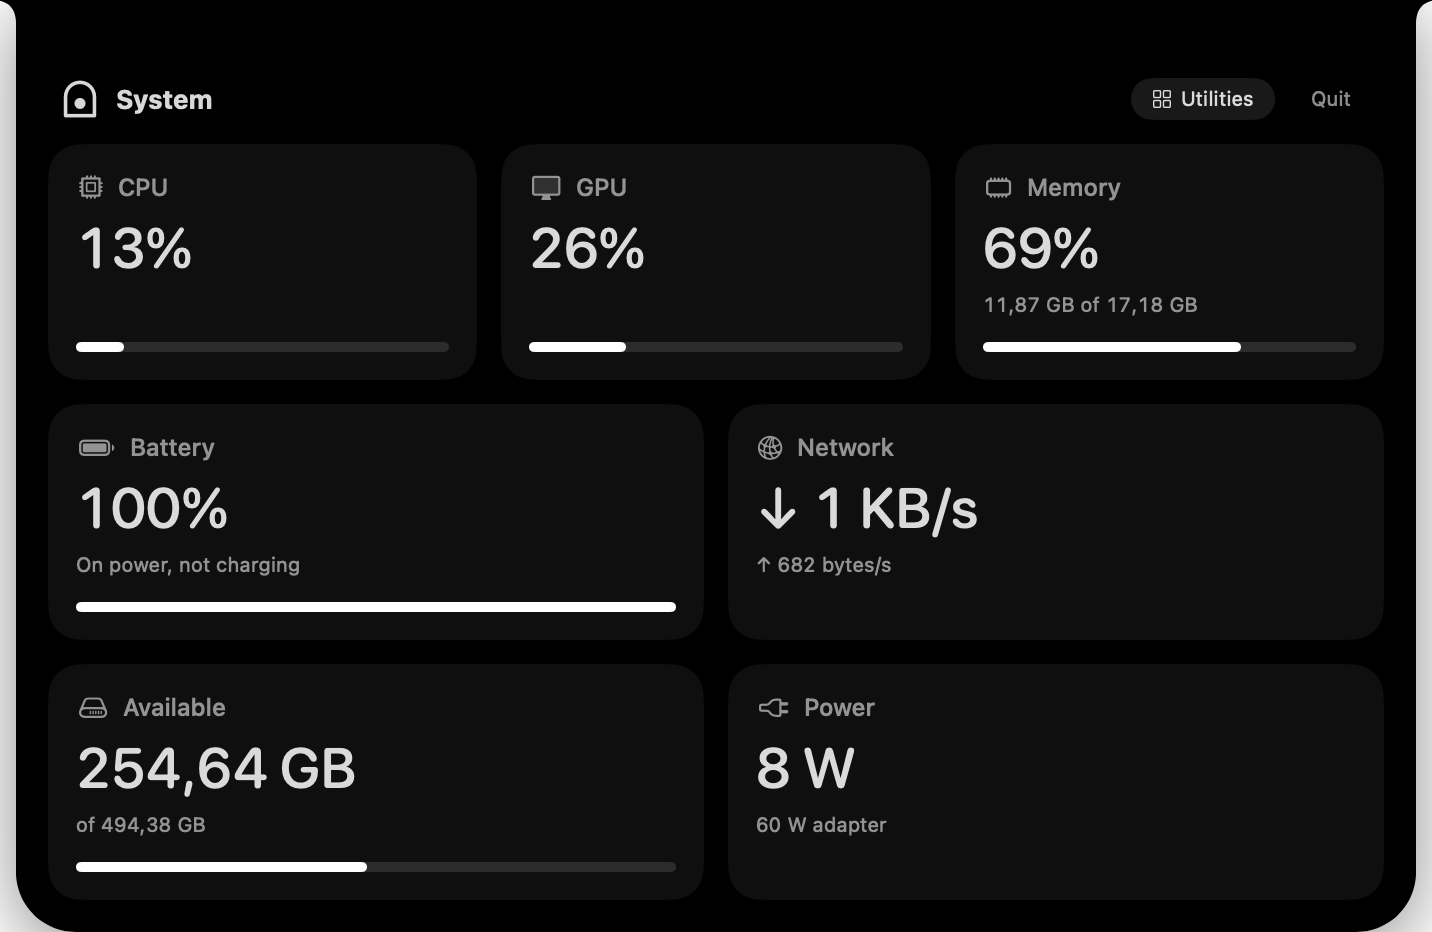
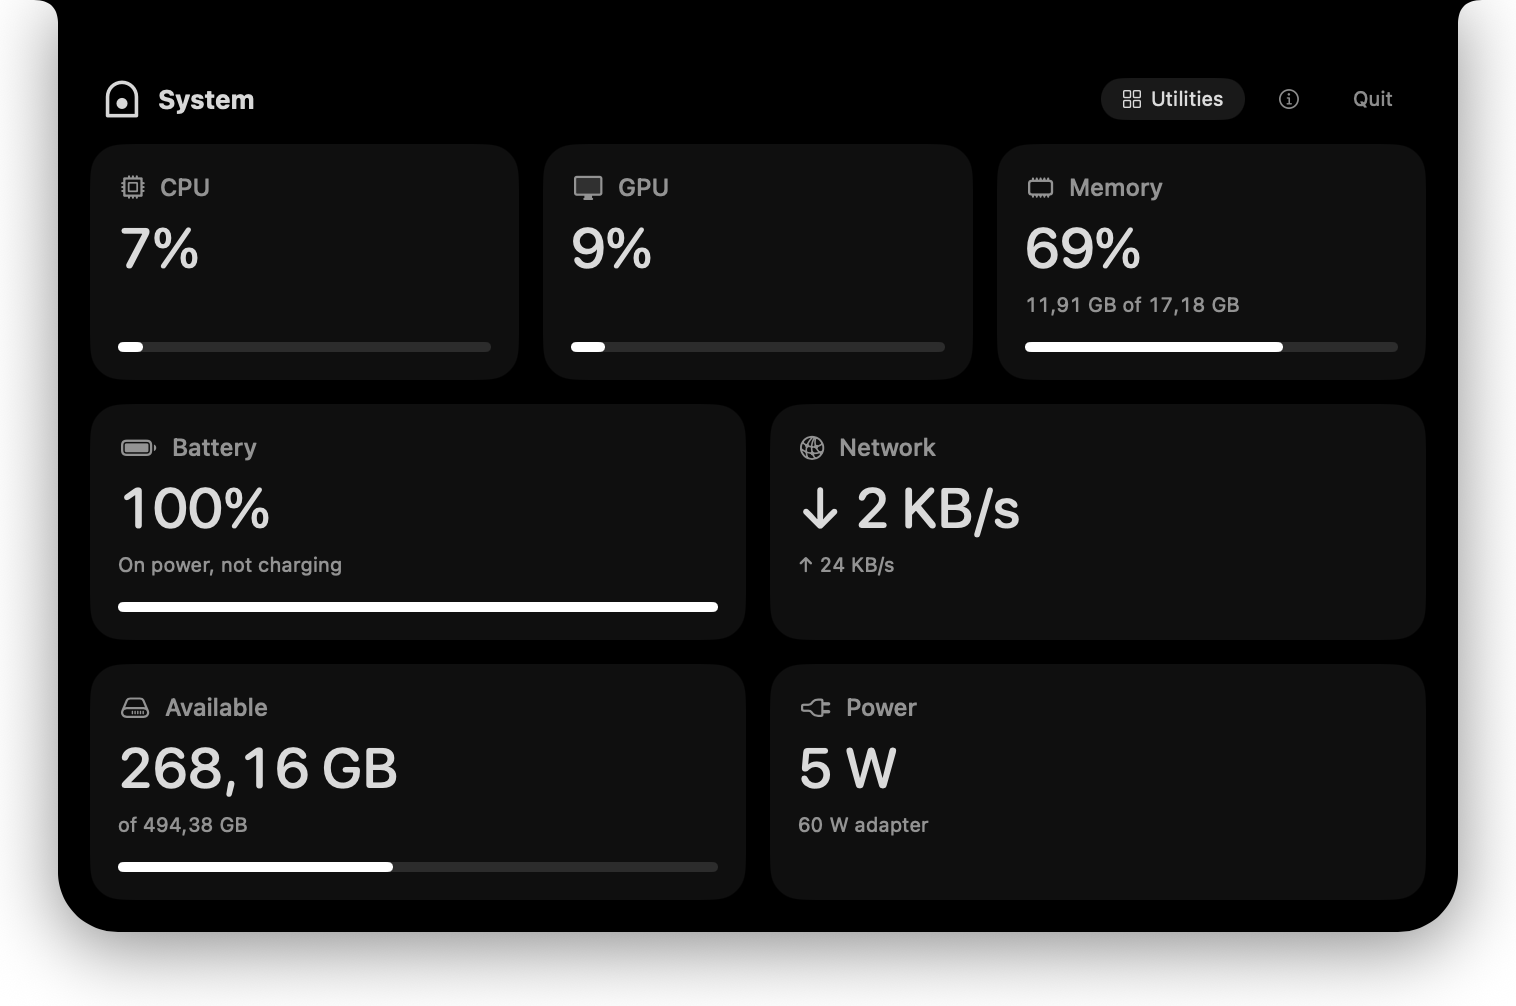
docs: rebuild the README with new screenshots
Lead with a short pitch, the correct Homebrew command and fresh captures of the Utilities, System and About pages; fold feature details and developer notes into collapsible sections.

diff --git a/README.md b/README.md
@@ -1,132 +1,160 @@
-<p align="center"><img src="icon/preview.png" width="128" alt="Nook icon"></p>
+<p align="center"><img src="icon/preview.png" width="112" alt="Nook icon"></p>
 
-# Nook
+<h1 align="center">Nook</h1>
 
-**Your little corner of utilities.**
-
-Nook is a lightweight macOS app that brings everyday utilities together in one convenient place. From Pomodoro focus sessions to scheduling shutdowns and cleaning up your system, Nook helps you take care of small tasks without interrupting your workflow.
-
-## ✨ Features
-
-Nook lives in your menu bar. Click its icon and Nook drops down from the notch at the top center of the screen, like the Dynamic Island. Click the icon again, click anywhere else or press Esc to fold it back up.
-
-The island has two pages. **Utilities** shows five tiles in two columns: Pomodoro and Power Off on the left, Music, Screen Recording and Bluetooth on the right. **System** shows your Mac's vitals. Switch between them with the button in the island's header, next to **Quit**.
+<p align="center"><strong>Your little corner of utilities, right under the notch.</strong></p>
 
 <p align="center">
-  <img src="screenshots/utilities.png" width="700" alt="The Utilities page: Pomodoro, Power Off, Screen Recording and Bluetooth tiles">
+  <a href="https://github.com/cs-tungthanh/nook/releases/latest"><img src="https://img.shields.io/github/v/release/cs-tungthanh/nook?style=flat-square&label=release&color=e8613c" alt="Latest release"></a>
+  <img src="https://img.shields.io/badge/macOS-13%2B-1f2328?style=flat-square&logo=apple&logoColor=white" alt="macOS 13 or later">
+  <img src="https://img.shields.io/badge/Apple_silicon-arm64-1f2328?style=flat-square" alt="Apple silicon">
+  <a href="https://cs-tungthanh.github.io/projects/nook/"><img src="https://img.shields.io/badge/website-nook-2f7cf6?style=flat-square" alt="Website"></a>
+</p>
+
+Nook lives in your menu bar. Click its icon and a panel drops down from the notch, like the Dynamic Island, with a Pomodoro timer, a shutdown timer, background music, screen recording, your Bluetooth devices and your Mac's vitals. Click away or press Esc and it folds back up.
+
+<p align="center">
+  <img src="screenshots/utilities.png" width="720" alt="Nook's Utilities page: Pomodoro, Power Off, Music, Screen Recording and Bluetooth tiles">
+</p>
+
+## Install
+
+```bash
+brew install --cask cs-tungthanh/tap/nook
+```
+
+Nook updates itself: when a new version is out, the island shows **Update to x.y.z**, and **About › Update & Relaunch** installs it. You can also run `brew upgrade --cask cs-tungthanh/tap/nook`, and remove Nook with `brew uninstall --cask cs-tungthanh/tap/nook`.
+
+> [!NOTE]
+> Use the full name `cs-tungthanh/tap/nook`. A plain `brew install nook` installs a different app, a web browser that's also called Nook.
+
+Nook needs an Apple silicon Mac with macOS 13 or later; screen recording needs macOS 15. It isn't notarized by Apple, so the Homebrew cask clears the download's quarantine flag for you. To build it yourself instead, see [Build from source](#build-from-source).
+
+## What's inside
+
+| | |
+|---|---|
+| ⏱ **Pomodoro** | Focus sprints with a live countdown ring, then a break as a notification or a full-screen overlay. Pauses while your Mac is locked or asleep. |
+| ⏻ **Power Off** | Drag along a ruler to shut your Mac down in 5 minutes to 2 hours. Cancel in one click. |
+| 🎵 **Music** | Study, sleep, focus and jazz live streams from YouTube, playing in the background. Search YouTube or play your own playlists. |
+| ⏺ **Screen Recording** | One screen, all screens or an area, with system audio and your microphone. Pause, resume and save as `.mov`. |
+| 📶 **Bluetooth** | Your paired devices with battery levels, including AirPods left, right and case. Connect or disconnect in one click. |
+| 📊 **System** | CPU, GPU, memory, battery, network, disk space and power draw at a glance. |
+| ℹ **About & updates** | Your version, how Nook was installed, and one-click updates from GitHub. |
+
+<p align="center">
+  <img src="screenshots/system.png" width="720" alt="Nook's System page: CPU, GPU, Memory, Battery, Network, Available disk space and Power tiles">
 </p>
 
 <p align="center">
-  <img src="screenshots/system.png" width="700" alt="The System page: CPU, GPU, Memory, Battery, Network, Available disk space and Power tiles">
+  <img src="screenshots/about.png" width="720" alt="Nook's About page: version 1.1.0, installed with Homebrew, up to date">
 </p>
 
-- **Power-off Timer** — Schedule your Mac to shut down after a set time.
-  - Click or drag along the ruler to pick 5 minutes to 2 hours in 5-minute steps, then press Start.
-  - A live countdown in the island, and a power icon in the menu bar while a shutdown is scheduled.
-  - Cancel with one click. You get a notification when a shutdown is scheduled or cancelled.
-- **Pomodoro** — Focus in sprints and take regular breaks away from your screen.
-  - A colorful card in the island: press **Start focusing**, then watch a live countdown ring — tomato red while you focus, mint green on a break, grey while paused.
-  - Focus for N minutes (20 by default), then break for 2m, 5m, 10m or 20m. **Break now** starts a break early; **Back to focus** ends one.
-  - Two break styles: a **Notification** with Start break / Snooze / Skip actions, or a **Full screen** blurred overlay with a countdown (press Esc to get back to focus; the screen is never locked).
-  - A ☕ icon in the menu bar during a break.
-  - Pauses while your Mac is locked or asleep. Settings are remembered between launches.
-- **Screen Recording** — Record your screens with audio (macOS 15 or later).
-  - **Source**: one **Screen** (pick which when you have several), **All screens** side by side in one video, or an **Area** you drag out after pressing Record (Esc cancels).
-  - Include **System** audio (what your Mac plays), your **Microphone**, or both. Your choices are remembered.
-  - **Stop** pauses the recording. Then **Resume** to keep recording into the same video, **Save** to finish it, or **Discard** to delete it.
-  - **Save** opens a dialog to name the `.mov` and pick a folder (Desktop by default), then shows it in Finder. Cancelling asks before deleting the recording. Quitting Nook with an unsaved recording asks where to save it first.
-  - While recording, a red **Stop** button with the elapsed time appears in the menu bar; click it to stop, and the island opens so you can resume or save.
-  - A record icon in the menu bar while recording (a pause icon while stopped) and a running timer in the island; Nook's own island is left out of the video.
-  - Very wide videos (for example two Retina screens) are saved as HEVC and scaled down to what the encoder supports.
-  - The first time, macOS asks you to allow Nook under **Screen & System Audio Recording** (and **Microphone** if you include it).
-- **Bluetooth** — Your paired devices, one tap from connecting.
-  - Each device shows whether it's connected and its battery level, including left, right and case for AirPods.
-  - **Connect** or **Disconnect** with one click. The first four devices are shown; **Show all** lists the rest.
-  - To forget a device, use **System Settings › Bluetooth**. macOS doesn't let other apps unpair devices.
-  - The first time, macOS asks you to allow Nook under **Bluetooth**.
-- **Music** — Study, sleep and focus music from YouTube, playing in the background.
-  - Pick a station from the menu in the Music tile: **Study**, **Sleep**, **Focus** or **Jazz**. Each plays a current live stream, so it never goes stale.
-  - Press 🔍 to search YouTube without leaving Nook. Filter by **Live**, **Playlists** or **Long (1h+)**, use ↑↓ to choose and press Return to play it now, or ⌘Return to also save it as a station. Esc goes back to the tiles. Your last 10 searches are listed until you type; **Clear** removes them.
-  - A result you play from search isn't saved until you press **☆ Save**. You can also **Add from YouTube Link…** (a link on the clipboard is filled in), and remove saved stations from the same menu.
-  - Switching stations fades the old music out. If something can't be played outside YouTube, Nook says so and the previous station keeps playing.
-  - Music keeps playing while the island is closed, with a ♪ icon in the menu bar. Right-click the menu bar icon to play, pause or switch stations without opening the island.
-  - Nothing plays until you press play; your last station and volume are remembered. Videos play through YouTube's own player, so YouTube's ads may play too.
-  - Once a station like **Study** is playing, the tile shows the stream's own title, with the station and channel underneath (for example *Study · Lofi Girl*).
-  - Press ↗ (or **Open in YouTube** in the menu) to open what's playing on youtube.com in your browser, at the same moment. Nook pauses so the two don't play over each other.
-  - **Recently Played** in the station menu lists the last 15 stations that played, whether presets, search results or playlists. **Clear Recently Played** empties it.
-  - **Connect YouTube Account** adds **Your Playlists** to the menu: your Liked videos and your own playlists, private ones included. Sign-in happens in your browser, Nook only reads your account, and **Disconnect** signs it out again. It needs a Google client ID when building; see [Connect YouTube](#connect-youtube).
-- **System** — Press **System** in the island's header to see your Mac's vitals at a glance; press **Utilities** to go back.
-  - **CPU**, **GPU** and **Memory** usage, each with a meter that turns orange above 85%.
-  - **Battery** level and whether it's charging, and **Network** download and upload speed.
-  - **Available** disk space, and **Power**: how many watts your Mac draws, with the adapter's rating when plugged in.
-  - Updates every 1.5 seconds, and only while the page is open.
-- **Cleanup** — Command-line tools that keep your system tidy (not in the menu bar app yet):
-  - `clean-zsh` removes duplicate commands from `~/.zsh_history`, keeping the latest of each.
-  - The bookmark updater follows redirects in your Microsoft Edge bookmarks and rewrites links that have moved.
-- **More Utilities** — A growing collection of handy tools for everyday tasks.
+## Features in detail
 
-> Features are planned to evolve as Nook grows.
+<details>
+<summary><strong>Pomodoro</strong></summary>
 
-## 🎯 Philosophy
+- A colorful card in the island: press **Start focusing**, then watch the countdown ring: tomato red while you focus, mint green on a break, grey while paused.
+- Focus for N minutes (20 by default), then break for 2, 5, 10 or 20 minutes. Changing the focus length keeps the time you've already focused.
+- **Break now** starts a break early, **Snooze 5m** pushes the next one back, and **Back to focus** ends a break.
+- Two break styles: a **Notification** with Start break, Snooze and Skip actions, or a **Full screen** blurred overlay with a countdown. Press Esc to get back to focus; the screen is never locked.
+- Pauses while your Mac is locked or asleep and picks up where it stopped. A ☕ icon shows in the menu bar during a break.
 
-Nook is built around a few simple principles:
+</details>
 
-- **Simple** — Do one thing well, without unnecessary complexity.
-- **Lightweight** — Stay out of your way and use resources responsibly.
-- **Convenient** — Keep useful tools within easy reach.
-- **Native** — Feel at home on macOS, with an interface that is clean and familiar.
-- **Extensible** — Make it easy to add new utilities as needs evolve.
+<details>
+<summary><strong>Power Off</strong></summary>
 
-## 🖥 Platform
+- Click or drag along the ruler to pick 5 minutes to 2 hours in 5-minute steps, then press **Start**.
+- A live countdown in the island and a power icon in the menu bar while a shutdown is scheduled. Cancel with one click.
+- You get a notification when a shutdown is scheduled or cancelled, and if macOS refuses to shut down, Nook tells you why.
 
-- macOS
+</details>
 
-## 🚀 Getting Started
+<details>
+<summary><strong>Music</strong></summary>
 
-### Install with Homebrew
+- Pick a station: **Study**, **Sleep**, **Focus** or **Jazz**. Each plays a current live stream, so it never goes stale.
+- Press 🔍 to search YouTube. Filter by **Live**, **Playlists** or **Long (1h+)**, choose with ↑↓ and press Return to play, or ⌘Return to also save it as a station. Your last 10 searches stay listed.
+- Save search results with **☆ Save**, or **Add from YouTube Link…**. **Recently Played** lists the last 15 stations.
+- Switching stations fades the old music out. If something can't play outside YouTube, Nook says so and goes back to what was playing.
+- Music keeps playing with the island closed, with a ♪ icon in the menu bar. Right-click the menu bar icon to play, pause or switch stations.
+- Press ↗ to open what's playing on youtube.com at the same moment; Nook pauses so the two don't overlap.
+- **Connect YouTube Account** adds your Liked videos and playlists, private ones included. Sign-in happens in your browser, Nook only reads your account, and the sign-in is kept in your Keychain.
+- Videos play through YouTube's own player, so YouTube's ads may play too.
+
+</details>
+
+<details>
+<summary><strong>Screen Recording</strong></summary>
+
+- **Source**: one **Screen**, **All screens** side by side in one video, or an **Area** you drag out after pressing Record (Esc cancels).
+- Include **System** audio, your **Microphone**, or both.
+- **Stop** pauses the recording. Then **Resume**, **Save** to name the `.mov` and pick a folder, or **Discard**. Quitting with an unsaved recording asks where to save it first.
+- A red **Stop** button with the elapsed time sits in the menu bar while recording. Nook's own island is left out of the video.
+- Very wide videos, such as two Retina screens, are saved as HEVC and scaled to what the encoder supports.
+
+</details>
+
+<details>
+<summary><strong>Bluetooth</strong></summary>
+
+- Each device shows whether it's connected and its battery level, including left, right and case for AirPods.
+- **Connect** or **Disconnect** with one click. The first four devices are shown; **Show all** lists the rest.
+- To forget a device, use **System Settings › Bluetooth**; macOS doesn't let other apps unpair devices.
+
+</details>
+
+<details>
+<summary><strong>System</strong></summary>
+
+- **CPU**, **GPU** and **Memory** usage, each with a meter that turns orange above 85%.
+- **Battery** level and charging state, **Network** download and upload speed, **Available** disk space, and **Power**: the watts your Mac draws and the adapter's rating.
+- Updates every 1.5 seconds, and only while the page is open.
+
+</details>
+
+<details>
+<summary><strong>About & updates</strong></summary>
+
+- Click ⓘ in the island's header to see your version, whether Nook was installed with Homebrew, and links to GitHub and the release notes.
+- Nook checks GitHub for a new release shortly after launch and every 6 hours, and sends one notification per new version.
+- **Update & Relaunch** downloads the release, checks it against the SHA-256 that GitHub publishes, installs it (through Homebrew when Nook came from there) and reopens Nook. Each step is logged to `~/Library/Logs/Nook/update.log`.
+
+</details>
+
+### Permissions
+
+macOS asks for each of these the first time Nook needs it:
+
+| Permission | Why |
+|---|---|
+| **Notifications** | Break reminders, shutdown alerts and update notices |
+| **Automation** (System Events) | Shutting down your Mac at the scheduled time |
+| **Bluetooth** | Listing, connecting and disconnecting your devices |
+| **Screen & System Audio Recording**, **Microphone** | Only when you record your screen |
+
+## Build from source
+
+You need macOS 13 or later, the Swift compiler (Xcode or the Command Line Tools) and, for the command-line tools, Go.
 
 ```bash
-brew tap cs-tungthanh/tap
-brew trust cs-tungthanh/tap
-brew install nook
+./build.sh          # compile, bundle and sign Nook.app
+./install.sh        # build, replace /Applications/Nook.app and launch it
 ```
 
-`brew tap` adds the [cs-tungthanh/tap](https://github.com/cs-tungthanh/homebrew-tap) catalog, and `brew trust` lets Homebrew install from it (Homebrew asks this once for any tap outside its own). After that, update with `brew upgrade nook` and remove with `brew uninstall nook`. Nook needs an Apple silicon Mac.
+`./install.sh --uninstall` quits and removes Nook. Local builds take the latest release's version number, so the update check treats them as current.
 
-### Requirements for building
+`build.sh` signs with your Apple Development or Developer ID certificate when you have one, so macOS keeps Nook's permissions across rebuilds; otherwise it signs ad-hoc. Set `NOOK_SIGN_IDENTITY` to choose an identity, or `-` to force ad-hoc.
 
-- macOS 13 (Ventura) or later
-- Swift compiler (comes with Xcode or the Command Line Tools)
-- Go, for the command-line tools
+<details>
+<summary><strong>Connect YouTube: set up a Google client ID</strong></summary>
 
-### Build and run the app
-
-```bash
-./build.sh
-open Nook.app
-```
-
-To install it, or to update an installed copy, run:
-
-```bash
-./install.sh
-```
-
-It builds Nook, quits any running copy (an unsaved recording still gets its save prompt), replaces `/Applications/Nook.app` and launches it. `./install.sh --uninstall` quits and removes Nook.
-
-On first use, macOS asks for these permissions:
-
-- **Automation** — to shut down your Mac at the scheduled time.
-- **Notifications** — for shutdown alerts and break reminders.
-- **Bluetooth** — to list, connect and disconnect your devices.
-- **Screen & System Audio Recording** and **Microphone** — only when you record your screen.
-
-### Connect YouTube
-
-Listing your own playlists needs a Google OAuth client ID built into Nook. Without one, Nook works as usual but doesn't offer **Connect YouTube Account**. To set it up once:
+Listing your own playlists needs a Google OAuth client ID built into Nook. Without one, Nook works as usual but doesn't offer **Connect YouTube Account**.
 
 1. In [Google Cloud Console](https://console.cloud.google.com/), create a project and enable **YouTube Data API v3**.
-2. Set up the OAuth consent screen (External, in testing) and add your Google account as a test user.
+2. Set up the OAuth consent screen (External), add the `youtube.readonly` scope, and add your Google account as a test user.
 3. Create an **OAuth client ID** of type **iOS** with bundle ID `com.nook.app`.
 4. Put it in a `.env` file next to `build.sh` (it's gitignored), then run `./install.sh`:
 
@@ -134,44 +162,52 @@ Listing your own playlists needs a Google OAuth client ID built into Nook. Witho
    NOOK_YOUTUBE_CLIENT_ID=1234567890-abc.apps.googleusercontent.com
    ```
 
-`build.sh` also reads `NOOK_YOUTUBE_CLIENT_ID` from the environment. While the Google project is in testing, Google signs you out after 7 days and Nook offers to connect again. YouTube no longer gives apps your watch history, so **Recently Played** only covers what played in Nook.
+While the Google project is in testing, Google signs you out after 7 days and Nook offers to connect again. YouTube no longer gives apps your watch history, so **Recently Played** only covers what played in Nook.
 
-### Command-line tools
+</details>
+
+<details>
+<summary><strong>Command-line tools</strong></summary>
 
 ```bash
-# Remove duplicate commands from ~/.zsh_history (a backup is saved as .zsh_history.bak)
+# Remove duplicate commands from ~/.zsh_history, keeping the latest of each
+# (multi-line commands stay whole; a backup is saved as .zsh_history.bak)
 go run ./clean-zsh [path/to/history]
 
-# Preview which Edge bookmark URLs have moved, then save them with -apply
+# Preview which Microsoft Edge bookmarks have moved, then save them with -apply
 go run . [-apply] [-wait 3] [-bookmarks path] [-edge path] [-proxy url]
 ```
 
 Close Edge completely before running the bookmark updater with `-apply`, because Edge can overwrite its bookmarks file when it quits.
 
-The updater checks links in a fresh, signed-out Edge profile, so it doesn't use Edge's built-in VPN (Secure Network). If your network blocks a site, the check fails with `SKIP: page failed to load: ERR_CONNECTION_REFUSED`, even though the site opens in your normal Edge. Pass `-proxy` to send the check through a proxy or VPN, for example `-proxy socks5://127.0.0.1:1080`. Supported schemes are `http`, `https`, `socks4` and `socks5`, without a username or password.
+The updater checks links in a fresh, signed-out Edge profile, so it doesn't use Edge's built-in VPN. If your network blocks a site, pass `-proxy` to go through a proxy or VPN, for example `-proxy socks5://127.0.0.1:1080`. Supported schemes are `http`, `https`, `socks4` and `socks5`, without a username or password.
 
-### Releasing
+</details>
+
+<details>
+<summary><strong>Releasing</strong></summary>
 
 Push a version tag:
 
 ```bash
-git tag v1.0.0 && git push origin v1.0.0
+git tag -a v1.2.0 -m "Nook 1.2.0" && git push origin v1.2.0
 ```
 
-The [Release workflow](.github/workflows/release.yml) builds Nook with that version, attaches `Nook-1.0.0.zip` to a GitHub release, and updates `Casks/nook.rb` in [cs-tungthanh/homebrew-tap](https://github.com/cs-tungthanh/homebrew-tap) from the template in `packaging/homebrew/nook.rb`.
-
-It uses these repository secrets:
+The [Release workflow](.github/workflows/release.yml) builds Nook with that version, attaches `Nook-1.2.0.zip` to a GitHub release, and updates `Casks/nook.rb` in [cs-tungthanh/homebrew-tap](https://github.com/cs-tungthanh/homebrew-tap) from the template in `packaging/homebrew/nook.rb`. Installed copies of Nook then offer the update.
 
 | Secret | Required | What it is |
 |---|---|---|
 | `HOMEBREW_TAP_TOKEN` | Yes | A fine-grained token with **Contents: read and write** on `homebrew-tap` |
+| `NOOK_YOUTUBE_CLIENT_ID` | No | The Google OAuth client ID; without it, releases don't offer **Connect YouTube Account** |
 | `MACOS_CERT_P12` | No | Your signing certificate exported as `.p12`, base64-encoded |
 | `MACOS_CERT_PASSWORD` | No | The `.p12` export password |
-| `NOOK_YOUTUBE_CLIENT_ID` | No | The Google OAuth client ID from [Connect YouTube](#connect-youtube); without it, releases don't offer **Connect YouTube Account** |
 
-Without a certificate, releases are signed ad-hoc and macOS forgets Nook's Screen Recording and Microphone permissions after every upgrade. Nook isn't notarized, so the cask clears the quarantine flag after install so Gatekeeper lets it open.
+Without a certificate, releases are signed ad-hoc and macOS forgets Nook's Screen Recording and Microphone permissions after every upgrade.
 
-### Project layout
+</details>
+
+<details>
+<summary><strong>Project layout</strong></summary>
 
 | Path | What it is |
 |---|---|
@@ -186,28 +222,16 @@ Without a certificate, releases are signed ad-hoc and macOS forgets Nook's Scree
 | `clean-zsh/` | Zsh history cleaner |
 | `main.go` | Edge bookmark updater |
 
-## 🛣 Roadmap
+</details>
 
-- [x] Build the core app interface
-- [x] Implement the break timer
-- [x] Add scheduled power-off functionality
-- [ ] Bring the cleanup utilities into the app
-- [x] Add a menu bar interface for quick access
-- [x] Add screen recording and Bluetooth devices
-- [x] Show system status (CPU, GPU, memory, battery, network, disk, power)
-- [ ] Support configurable preferences
-- [ ] Expand the collection of utilities over time
+## Roadmap
 
-## 🤝 Contributing
+- [x] Pomodoro, Power Off, Music, Screen Recording, Bluetooth and System
+- [x] Homebrew releases and in-app updates
+- [ ] Bring the cleanup tools into the app
+- [ ] Configurable preferences
+- [ ] More utilities over time
 
-Nook is a work in progress. Ideas, suggestions, and contributions are welcome.
+Ideas and contributions are welcome: [open an issue](https://github.com/cs-tungthanh/nook/issues). The license hasn't been decided yet.
 
-## 📄 License
-
-The license has not been decided yet.
-
----
-
-Made for the little things that make your day easier.
-
-**Nook** — Your little corner of utilities.
+<p align="center"><sub>Made for the little things that make your day easier.</sub></p>
